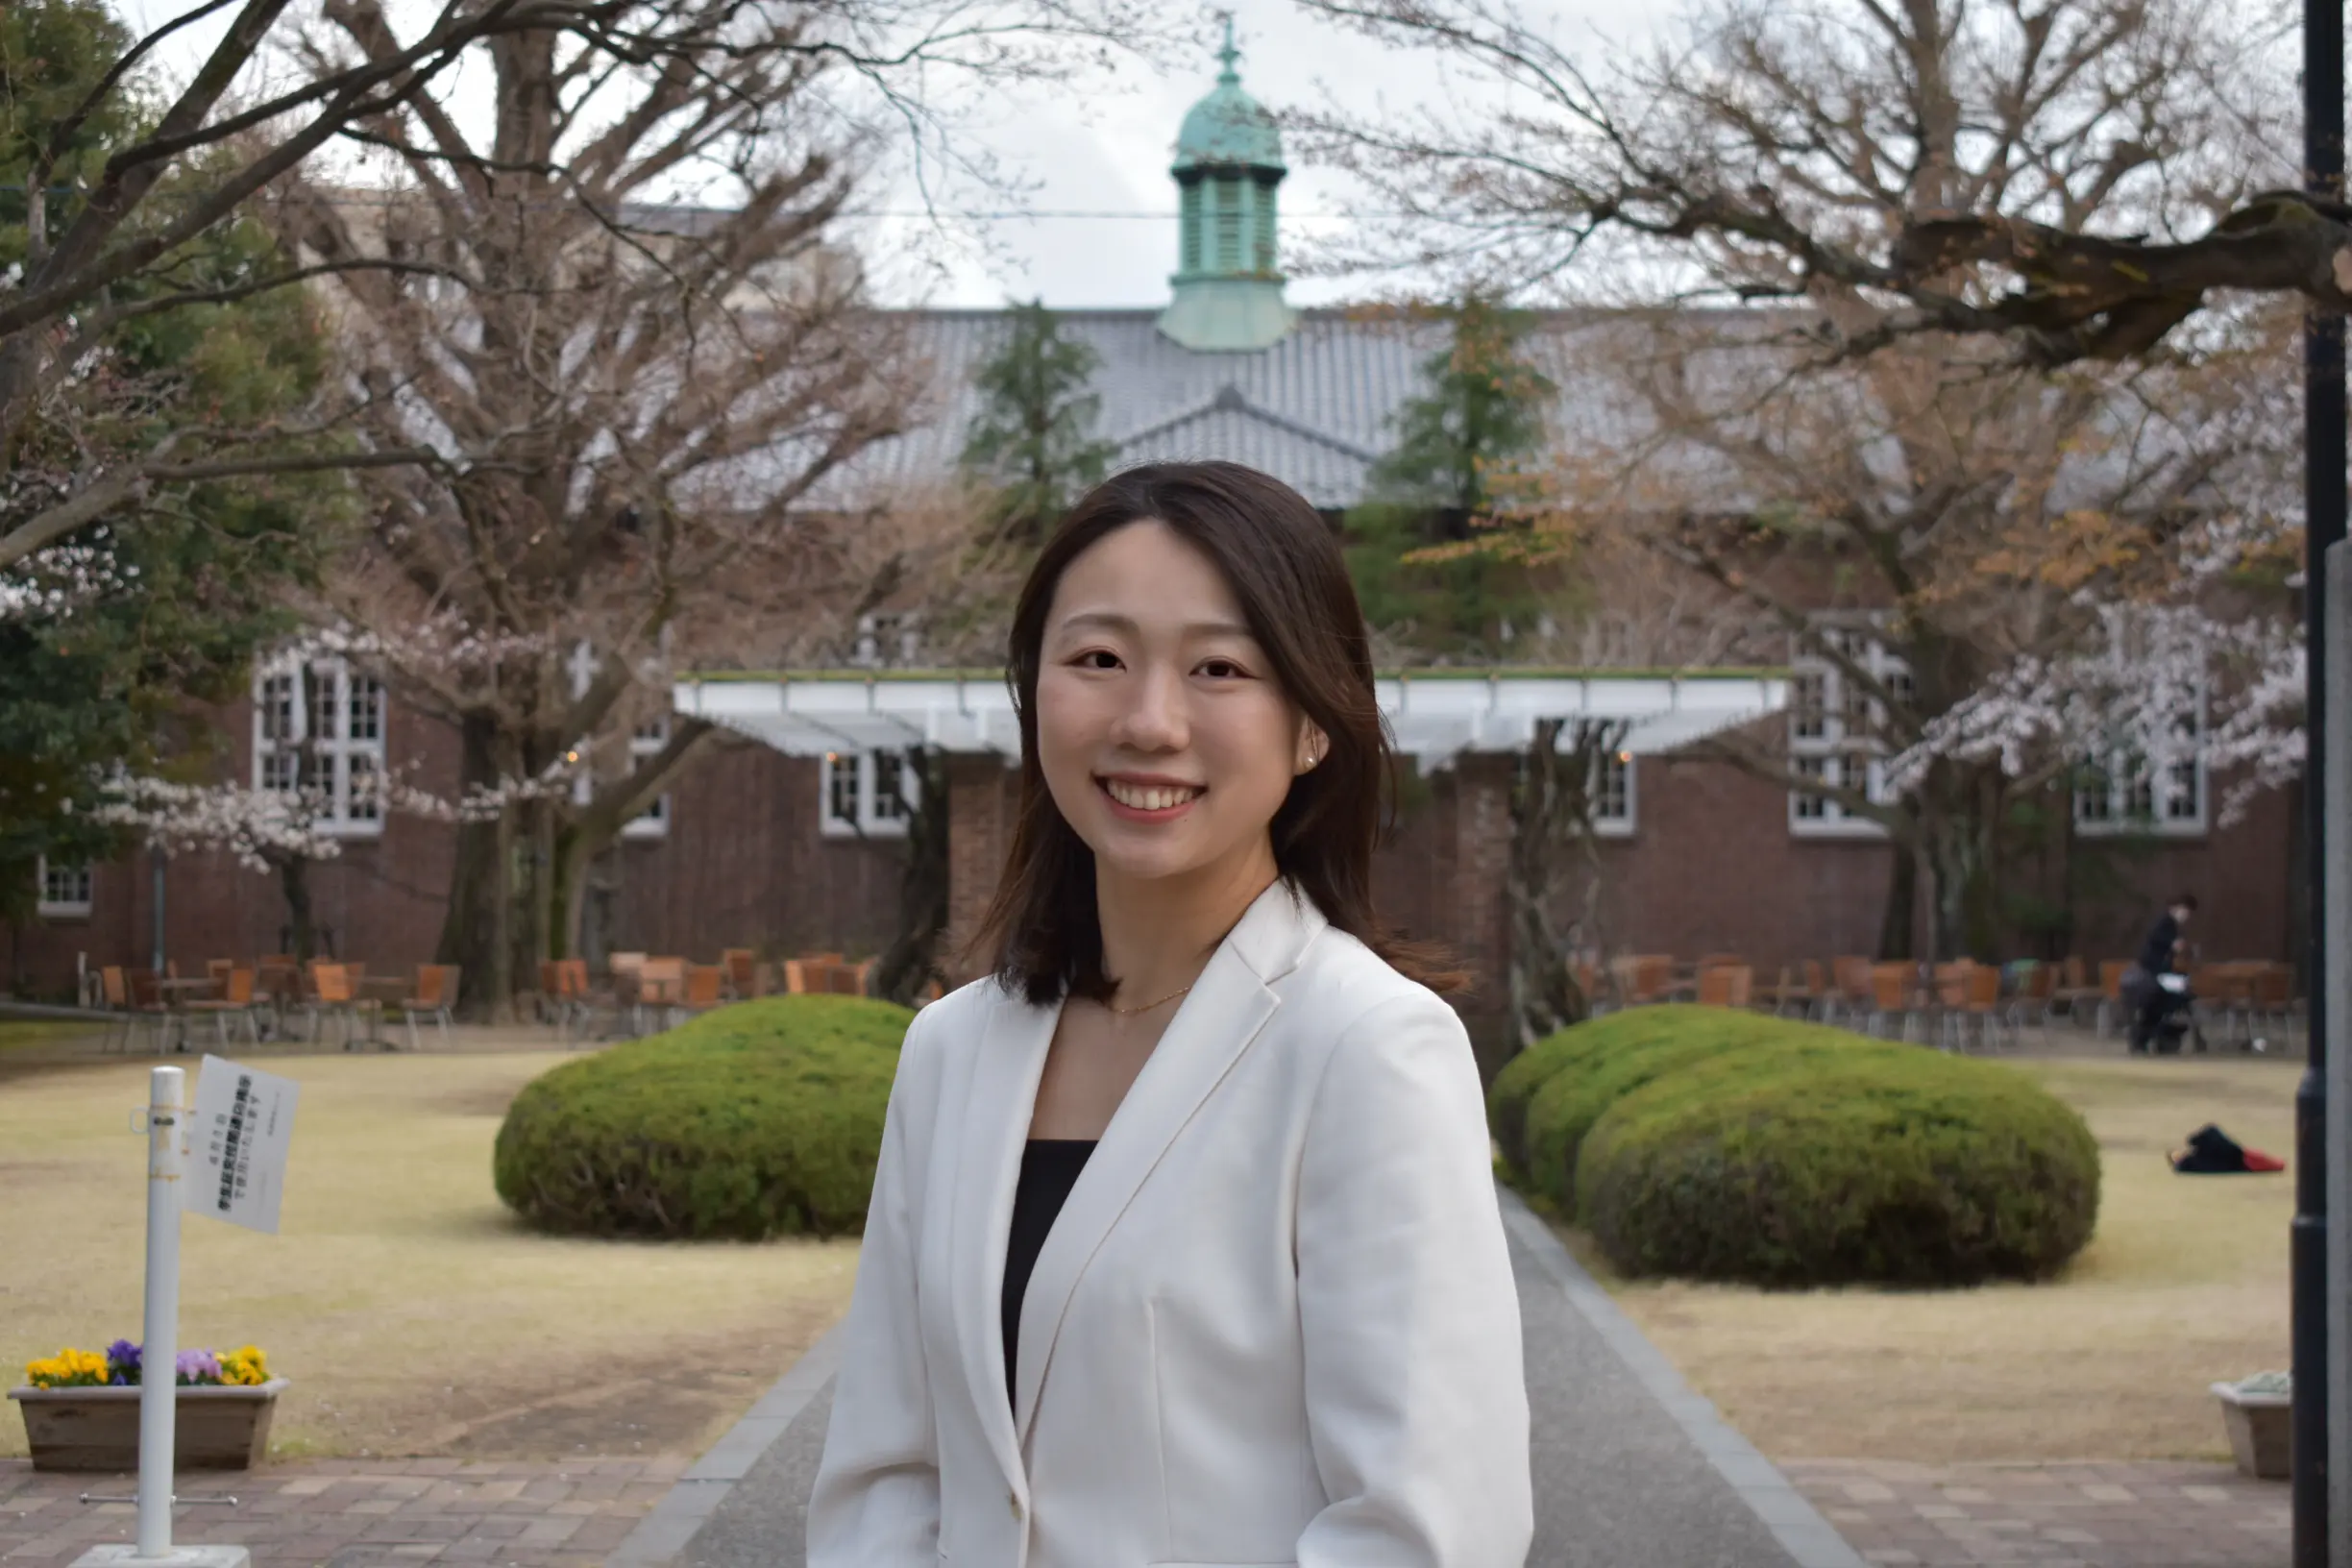
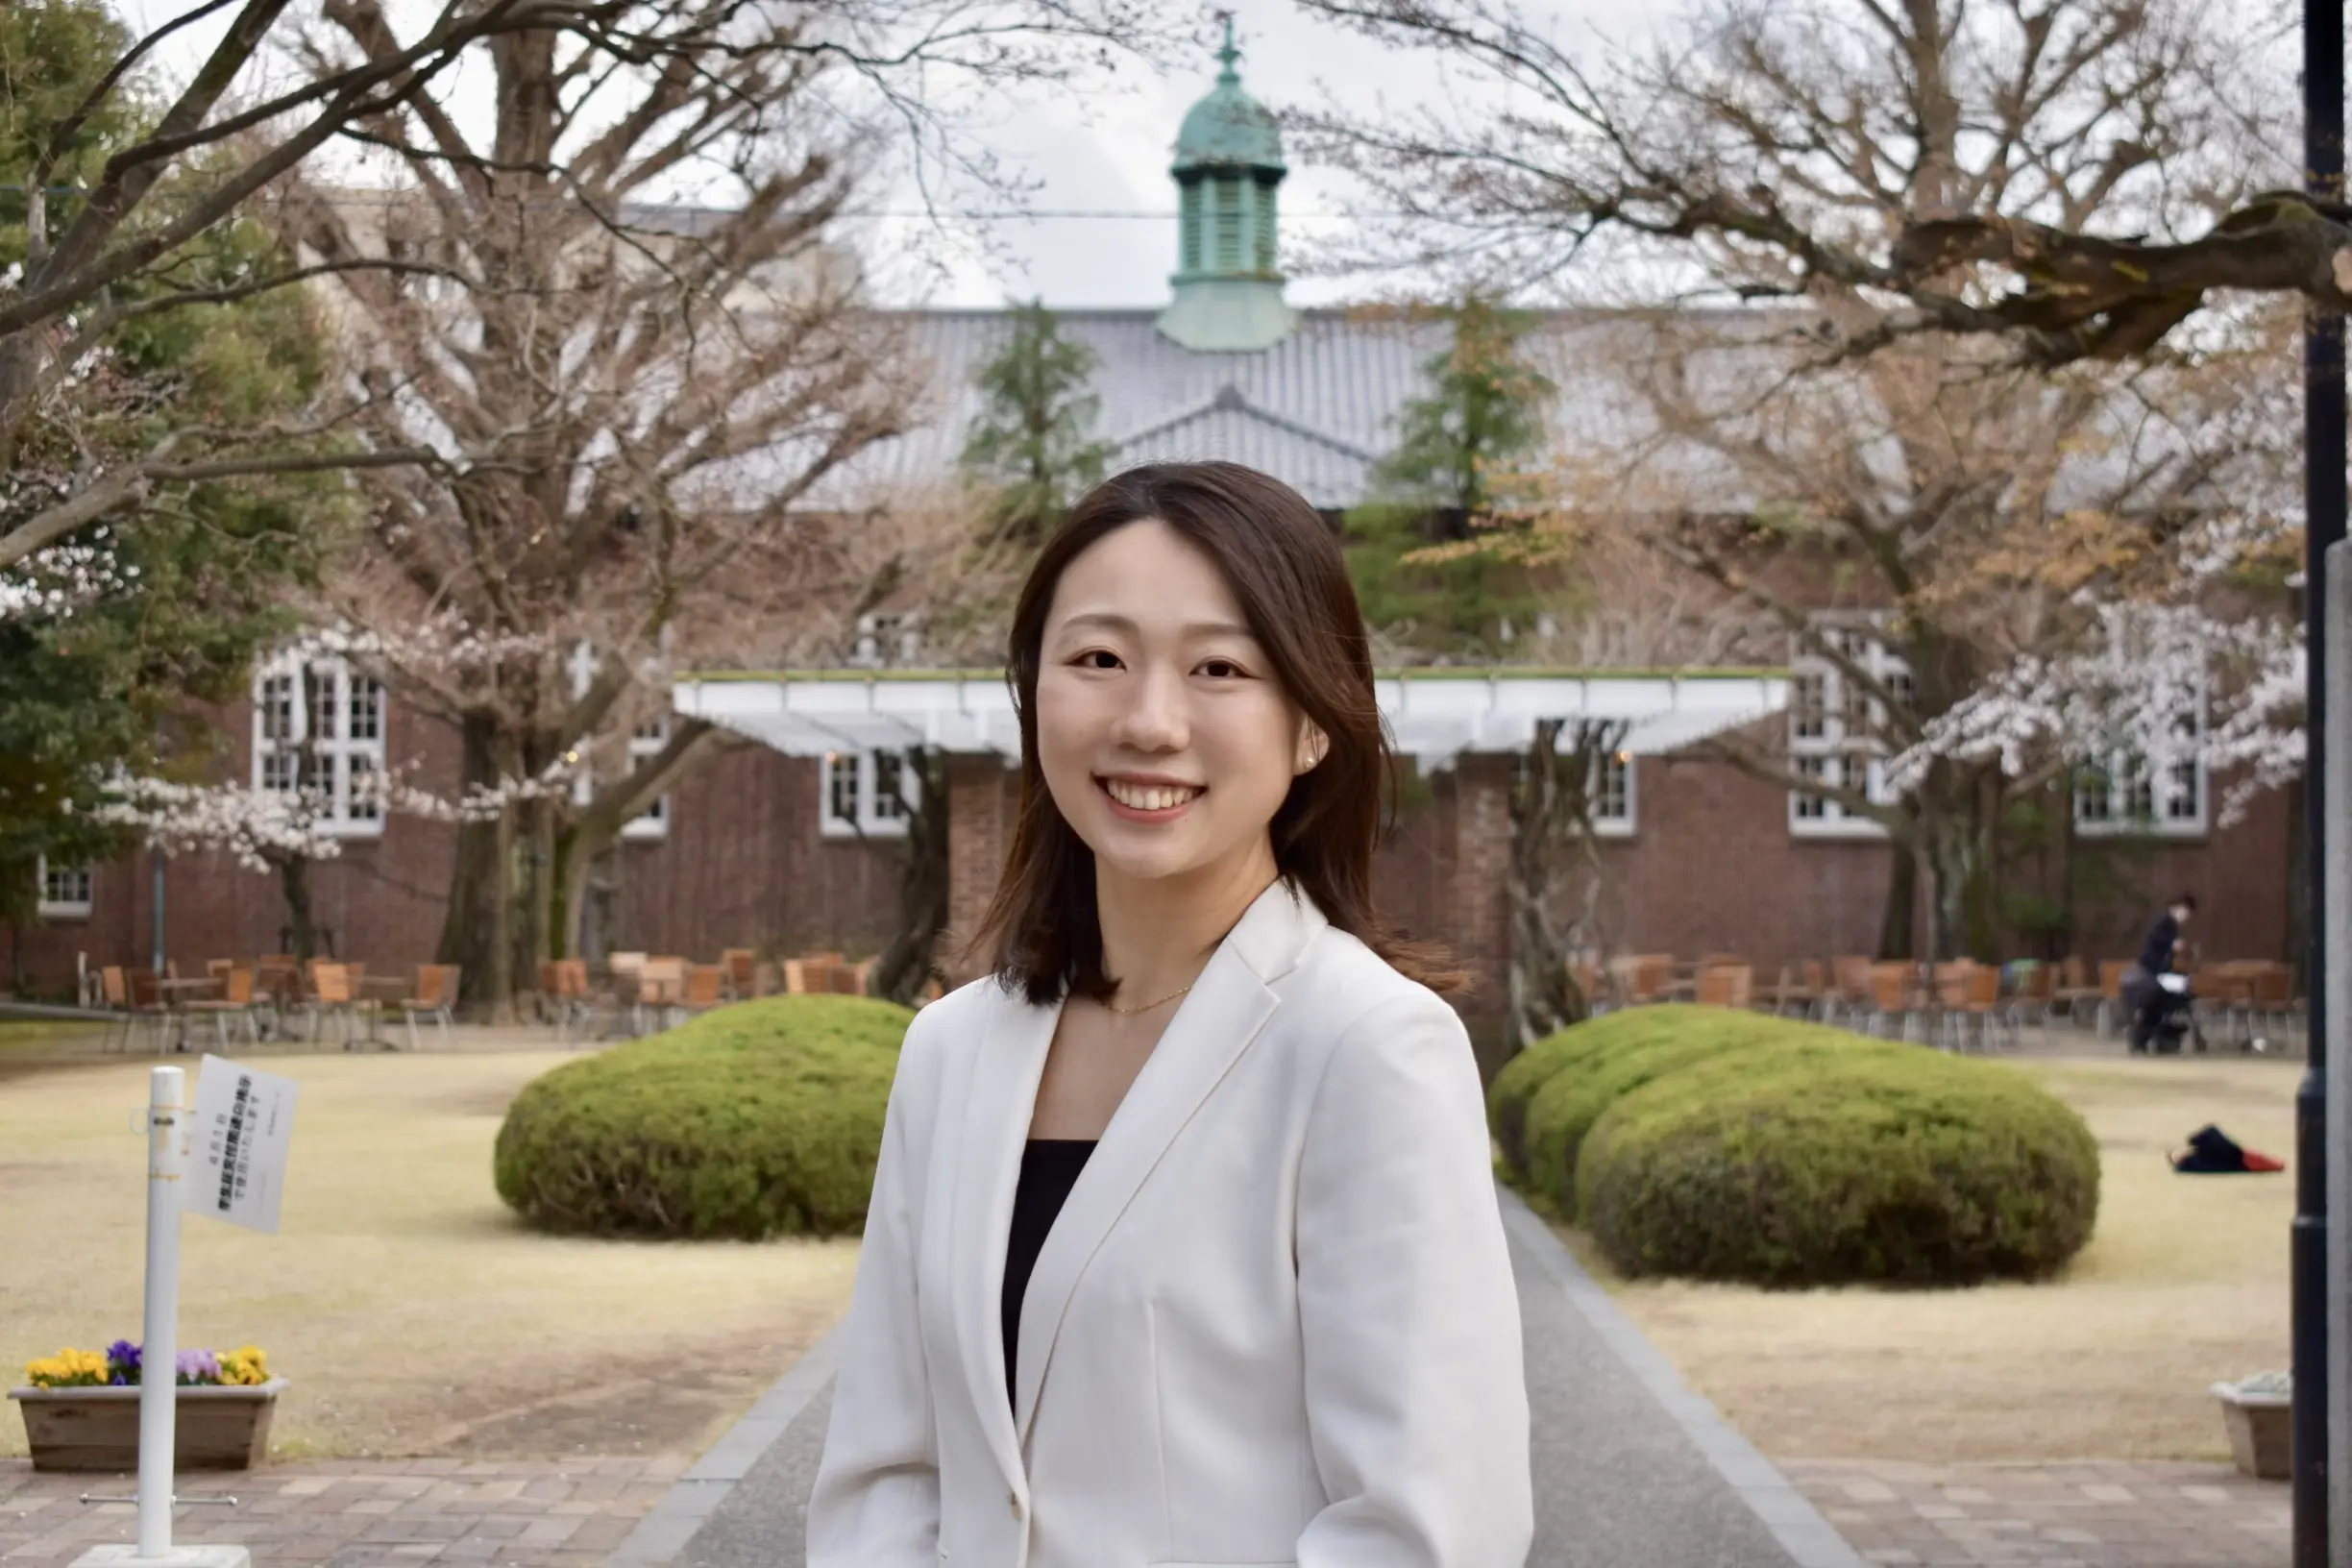
Add new images and update SVG assets for the About and Service sections. Modify About component layout to include new image, enhance ServiceCard component for better image handling, and update service data with new titles and descriptions.

diff --git a/src/components/About.tsx b/src/components/About.tsx
@@ -13,23 +13,35 @@ export default function About() {
       </div>
 
       <div className="max-w-6xl mx-auto px-6 relative z-10">
-        <div className="max-w-2xl mx-auto md:mx-0 md:ml-auto md:mr-0 text-center md:text-left">
-          <p className="text-mint-400 text-xs font-semibold tracking-widest uppercase mb-4">
-            About us
-          </p>
-          <h2 className="text-3xl md:text-4xl font-bold text-foreground leading-relaxed mb-8">
-            言葉を育て、
-            <br />
-            聴くを育て、
-            <br />
-            語りをひらく。
-          </h2>
-          <p className="text-gray-600 leading-loose text-sm md:text-base">
-            IROHAは2025年に設立された一般社団法人です。言葉と見にを育てることにより人の語りを開き、対話のドアをひらくための事業を行っています。
-          </p>
-          <p className="text-gray-600 leading-loose text-sm md:text-base mt-4">
-            言語教育、記憶の継承、語りの場づくりという3つの柱で、年齢・国籍・性別などの隔たりを超えて人と人の「出会いなおし」の瞬間を一緒に作っています。
-          </p>
+        <div className="flex flex-col md:flex-row gap-12 items-center">
+          {/* Image */}
+          <div className="flex-shrink-0">
+            <img
+              src="/about-us.png"
+              alt="About us"
+              className="w-64 md:w-80 rounded-2xl object-cover"
+            />
+          </div>
+
+          {/* Text */}
+          <div className="text-center md:text-left">
+            <p className="text-mint-400 text-xs font-semibold tracking-widest uppercase mb-4">
+              About us
+            </p>
+            <h2 className="text-3xl md:text-4xl font-bold text-foreground leading-relaxed mb-8">
+              言葉を育て、
+              <br />
+              聴くを育て、
+              <br />
+              語りをひらく。
+            </h2>
+            <p className="text-gray-600 leading-loose text-sm md:text-base">
+              IROHAは2025年に設立された一般社団法人です。「言葉」と「聴くこと」を育てることにより人の語りを開き、対話のドアをひらくための事業を行っています。
+            </p>
+            <p className="text-gray-600 leading-loose text-sm md:text-base mt-4">
+              言語教育、記憶の継承、語りの場づくりという3つの柱で、年齢・国籍・性別などの隔たりを超えて人と人の「出会いなおし」の瞬間を一緒に作っています。
+            </p>
+          </div>
         </div>
       </div>
     </section>

diff --git a/src/components/ServiceCard.tsx b/src/components/ServiceCard.tsx
@@ -38,14 +38,14 @@ export default function ServiceCard({ service }: Props) {
       {/* Text side */}
       <div className="flex-1 max-w-lg">
         <div className="flex items-center gap-3 mb-4">
-          {service.image && (
+          {service.image && !service.hideTitleLogo && (
             <img
               src={service.image}
               alt={service.subtitle}
               className="w-12 h-12 rounded-xl object-cover"
             />
           )}
-          <h3 className="text-2xl md:text-3xl font-bold text-foreground leading-snug">
+          <h3 className="text-2xl md:text-3xl font-bold text-foreground leading-snug whitespace-pre-line">
             {service.nameJa}<br />{service.subtitle}
           </h3>
         </div>
@@ -84,7 +84,11 @@ export default function ServiceCard({ service }: Props) {
       {/* Mockup side */}
       <div className="flex-1 flex justify-center">
         <div
-          className="relative w-64 md:w-80 rounded-2xl flex items-center justify-center overflow-visible py-8 px-6"
+          className={`relative w-64 md:w-80 rounded-2xl flex items-center justify-center ${
+            !service.images && service.image
+              ? "overflow-hidden"
+              : "overflow-visible py-8 px-6"
+          }`}
           style={{ background: mockupColors[service.mockupBg] ?? mockupColors["bg-mint"] }}
         >
           {service.images ? (
@@ -93,7 +97,7 @@ export default function ServiceCard({ service }: Props) {
             <img
               src={service.image}
               alt={service.subtitle}
-              className="w-56 md:w-64 object-contain"
+              className="w-full aspect-[4/5] object-cover"
             />
           ) : (
             /* Book mockup */

diff --git a/src/data/services.ts b/src/data/services.ts
@@ -6,6 +6,7 @@ export type Service = {
   description: string;
   link: string;
   appStoreLink?: string;
+  hideTitleLogo?: boolean;
   image?: string;
   images?: string[];
   mockupBg: string;
@@ -37,11 +38,12 @@ export const services: Service[] = [
   {
     id: "your-hintory",
     name: "Your History",
-    nameJa: "自伝・家族史作成サービス",
-    subtitle: "Your History",
+    nameJa: "紡ぐ書房",
+    subtitle: "あなたの言葉を聴き、家族へ繋ぐ人生の書を仕立てます",
     description:
-      "個人の**ライフストーリーの聞き取り**と**家族史の調査**によって**１冊の本**にまとめて提供するサービスです。\nご自身の**人生の振り返り**や、家族への**記憶の継承**を目的としてご利用いただいています。\n\n家族として長年同居していても「親」や「祖父母」という肩書きを外した**個人としての人生**は案外深く知らないことが多いです。\nYour Historyのサービスを通して自分自身や家族と**「出会いなおし」**をしてみませんか。",
+      "個人の**ライフストーリーの聴き取り**と**家族史の調査**によって**１冊の本**にまとめて提供するサービスです。\nご自身の**人生の振り返り**や、家族への**記憶の継承**を目的としてご利用いただいています。\n\n家族として長年同居していても「親」や「祖父母」という肩書きを外した**個人としての人生**は案外深く知らないことが多いです。\n紡ぐ書房のサービスを通して自分自身や家族と**「出会いなおし」**をしてみませんか。",
     link: "",
+    hideTitleLogo: true,
     image: "/service/your-history.png",
     mockupBg: "bg-peach",
     reverse: true,